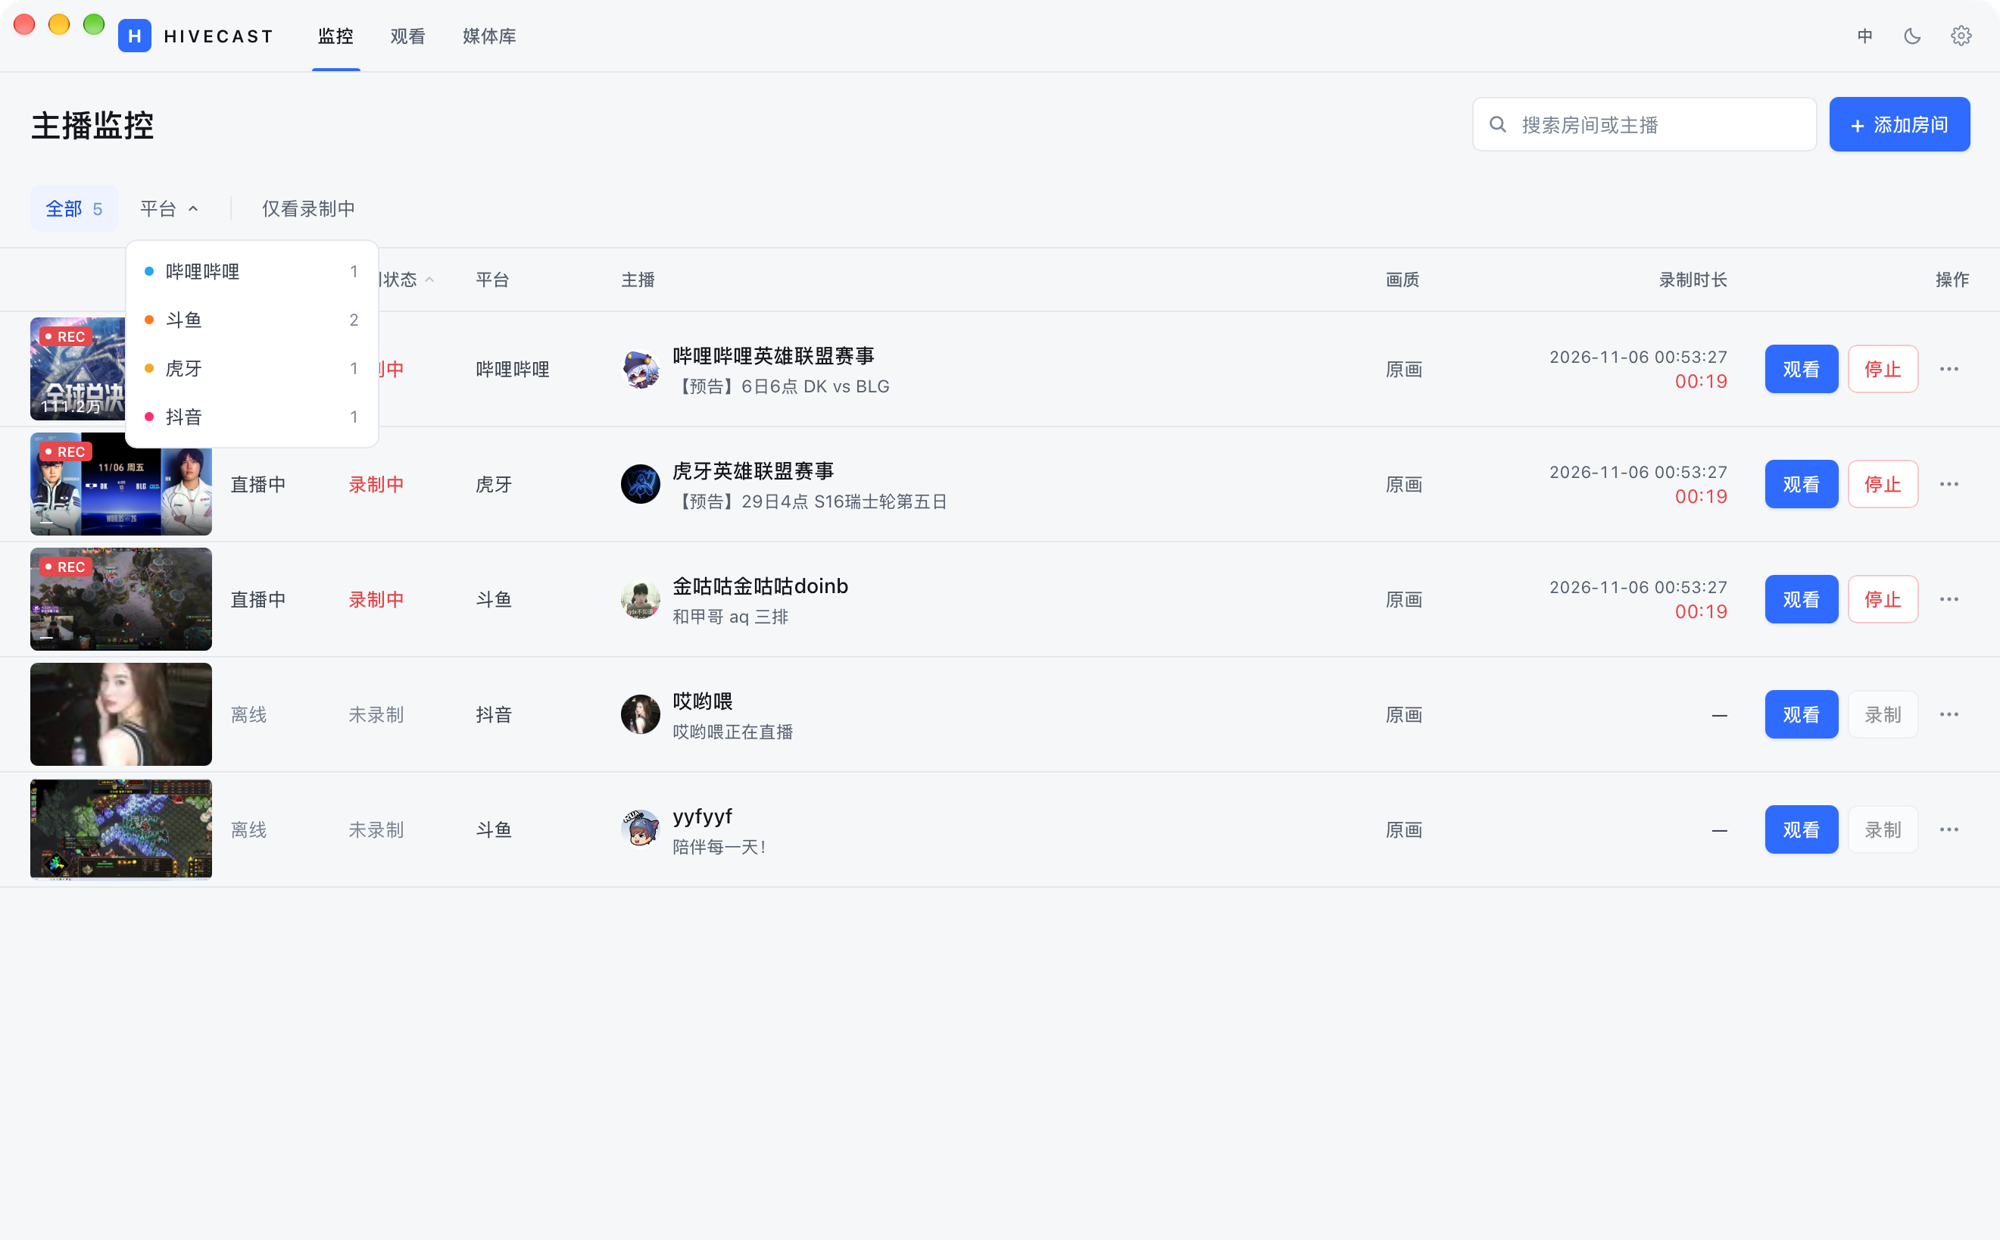
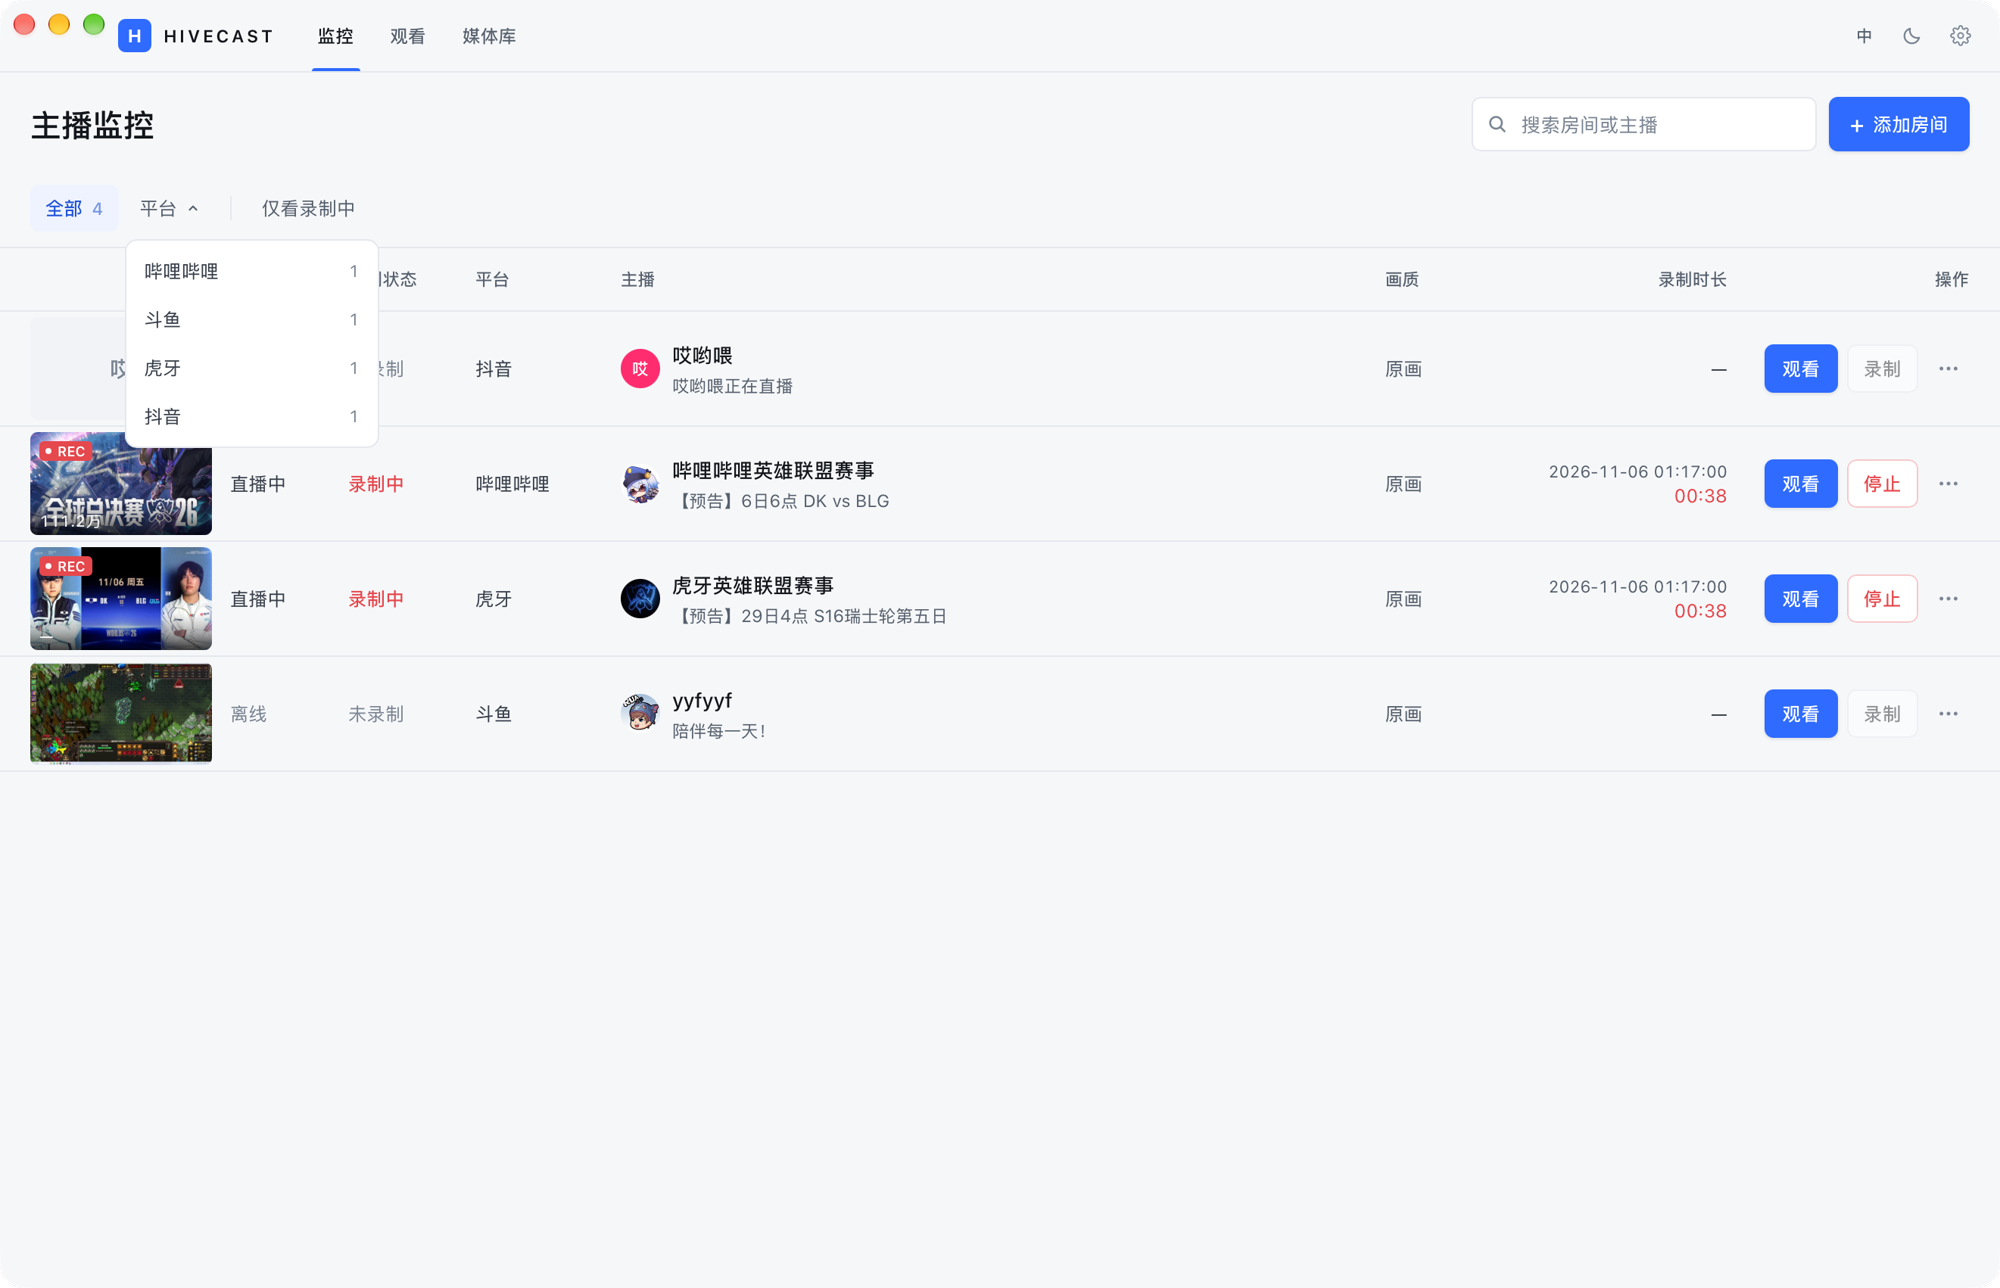
fix(monitor): 平台筛选菜单去掉彩色圆点

diff --git a/src/features/monitor/MonitorPage.tsx b/src/features/monitor/MonitorPage.tsx
@@ -1046,10 +1046,6 @@ export default function MonitorPage({ onOpenWatch }: { onOpenWatch?: () => void 
                       platform === item.key ? "font-medium text-accent-text" : "text-ink-soft",
                     )}
                   >
-                    <span
-                      className="h-1.5 w-1.5 shrink-0 rounded-full"
-                      style={{ backgroundColor: PLATFORM_DOT[item.key] }}
-                    />
                     <span className="flex-1 truncate">{item.label}</span>
                     <span className="tnum text-[11px] text-faint">{item.count}</span>
                   </button>
